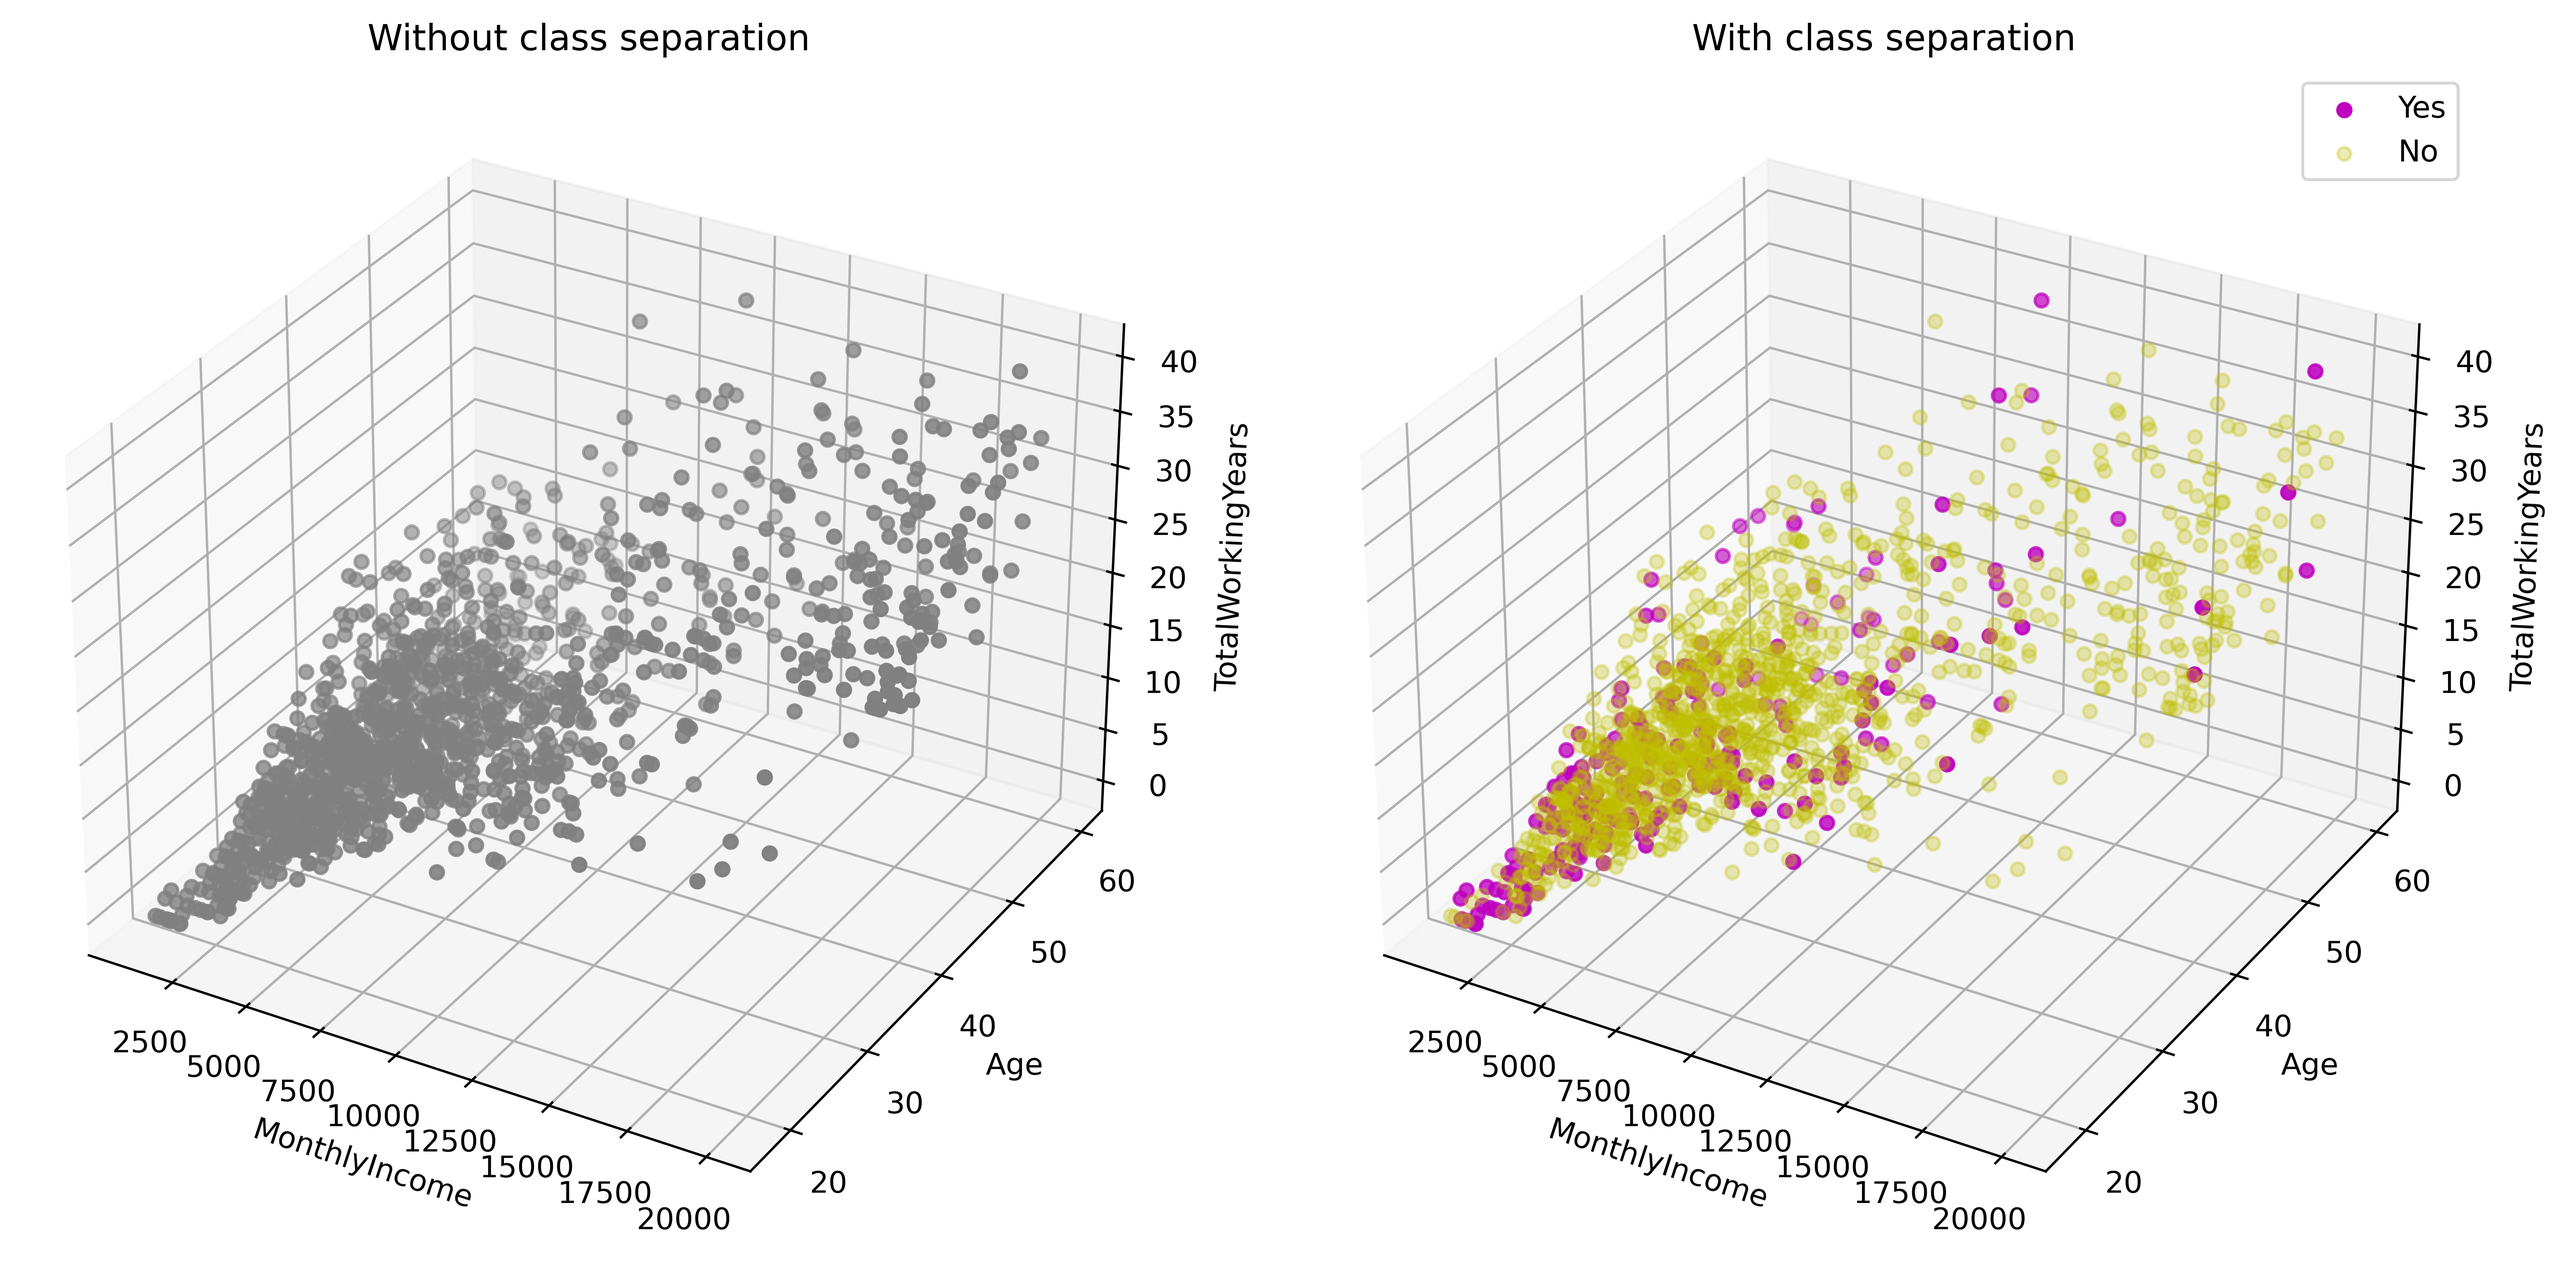
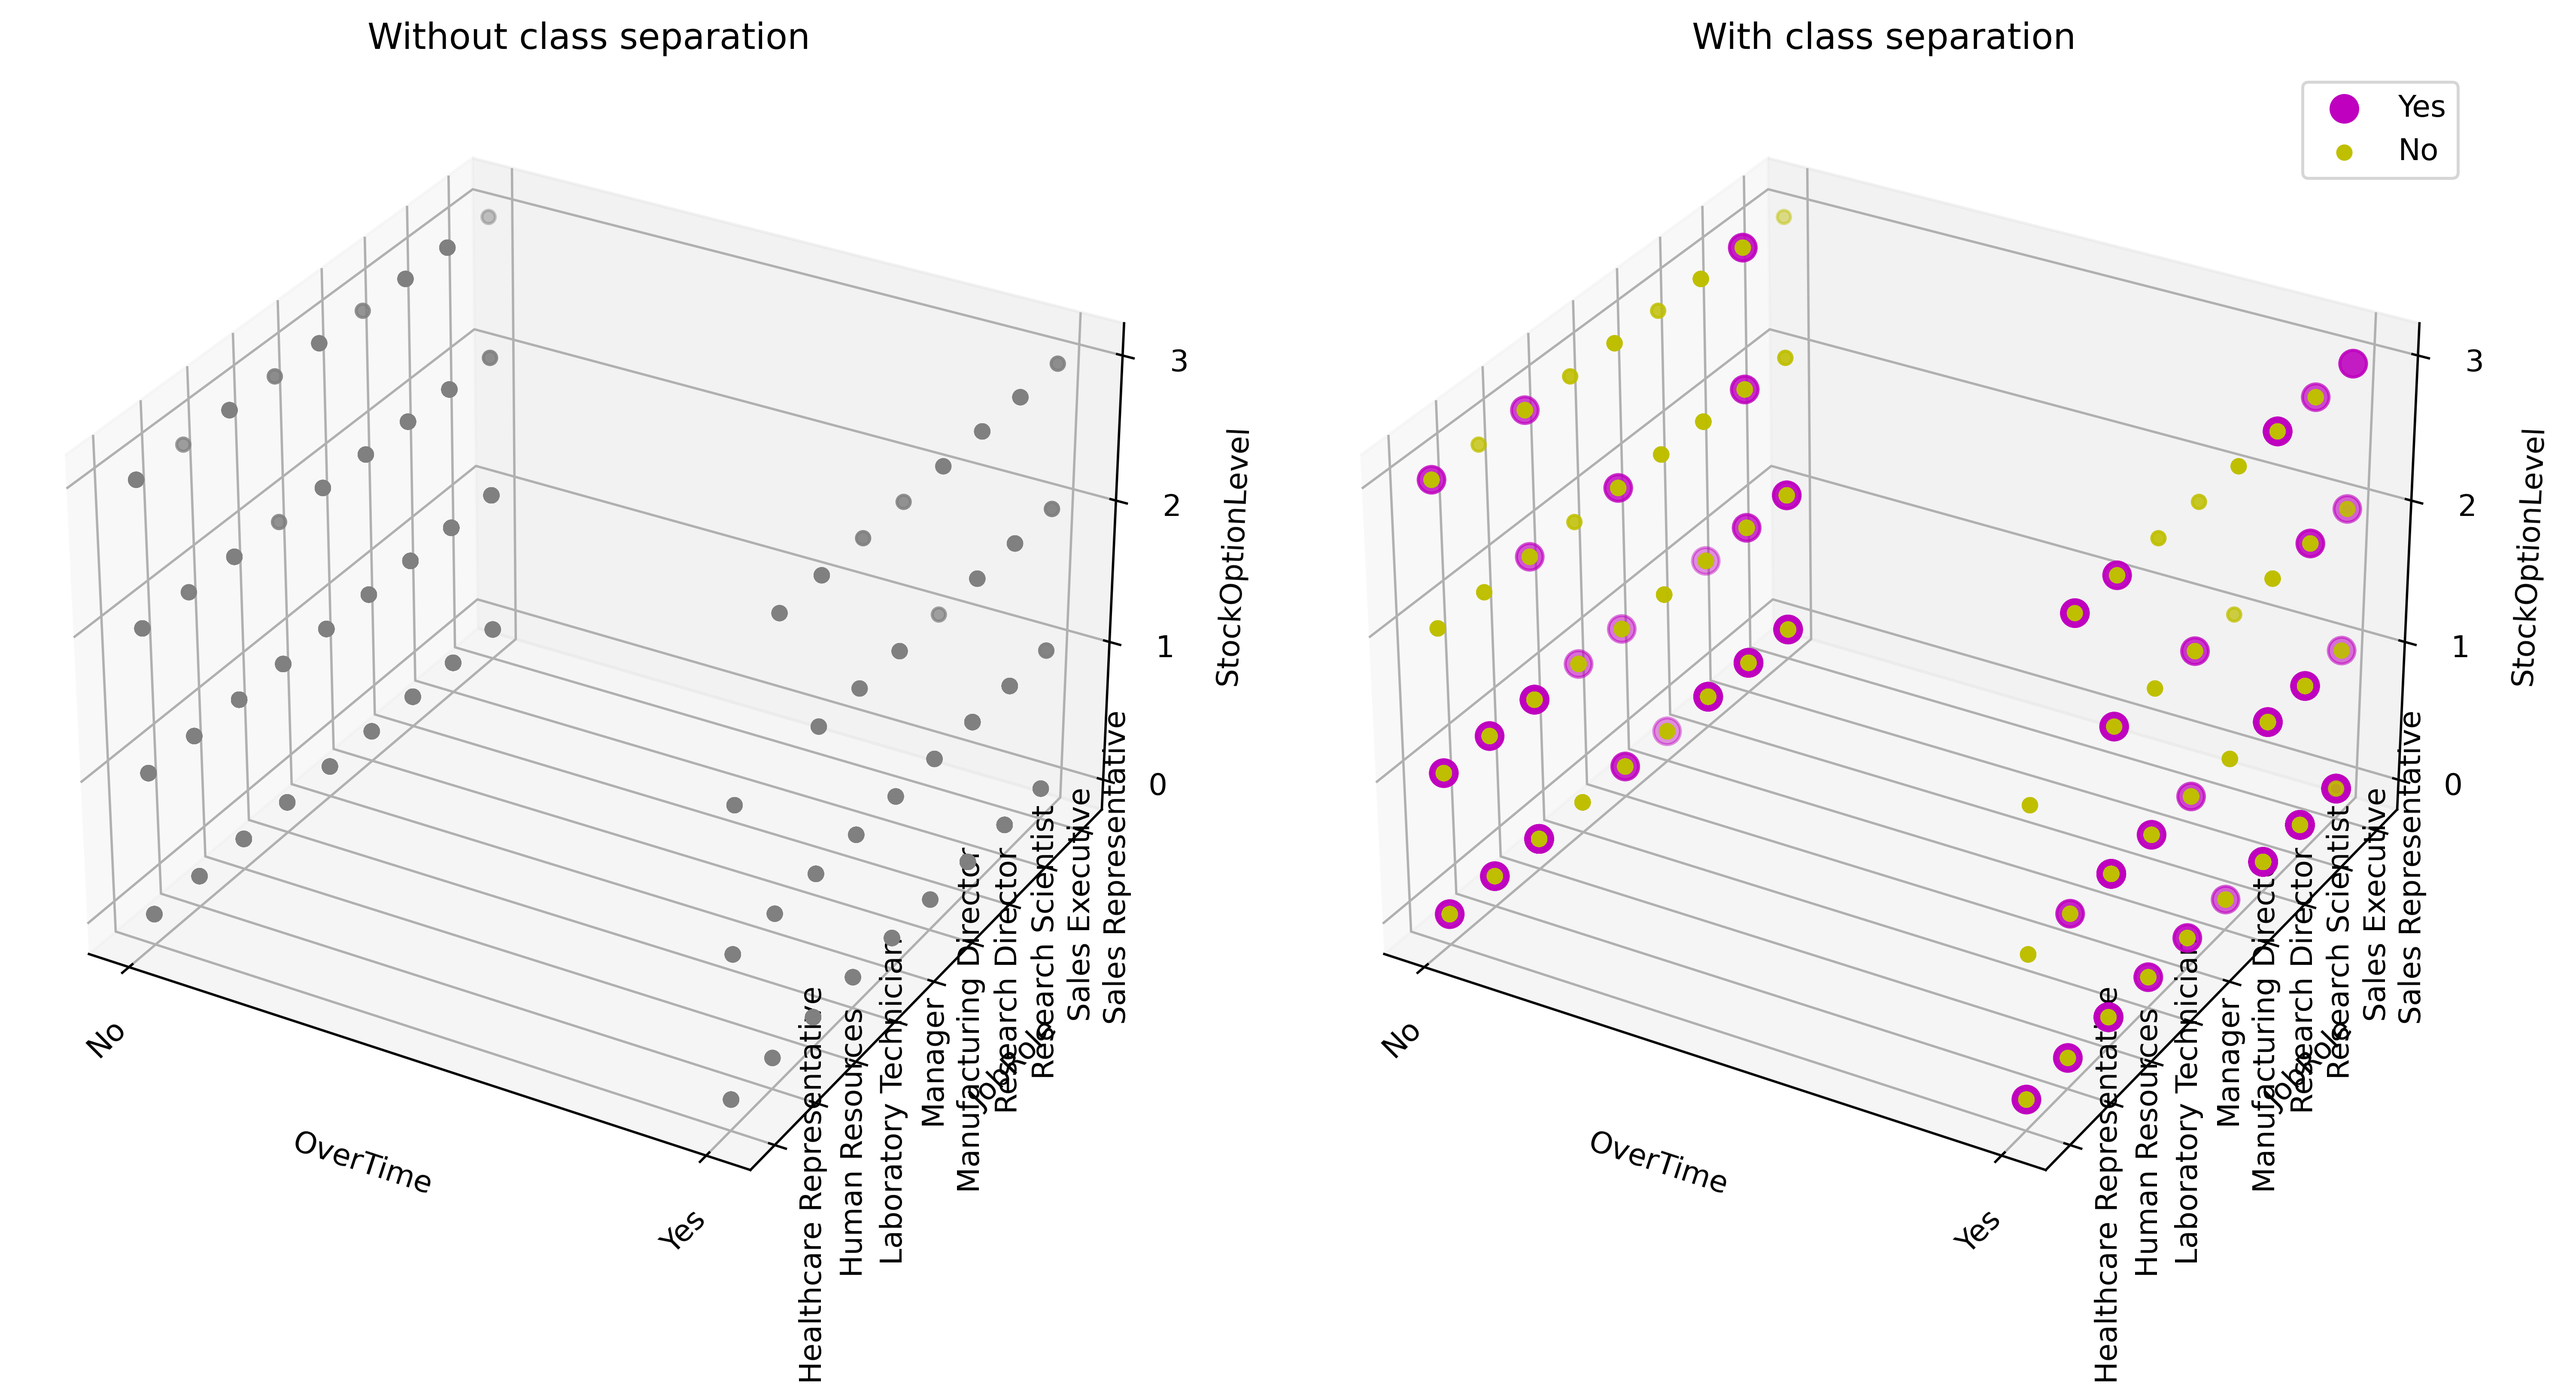
main-visualisation finalized

diff --git a/visualisation.py b/visualisation.py
@@ -1,11 +1,27 @@
 import pandas as pd
+import numpy as np
 from sklearn.discriminant_analysis import LinearDiscriminantAnalysis
 from sklearn.preprocessing import StandardScaler, OneHotEncoder, OrdinalEncoder
 from sklearn.compose import ColumnTransformer
 from sklearn.decomposition import PCA
 from sklearn.ensemble import RandomForestClassifier
 import matplotlib.pyplot as plt
-import plotly.express as px
+from scipy.stats import pointbiserialr, chi2_contingency
+import seaborn as sns
+
+def cramers_v(x, y):
+    confusion_matrix = pd.crosstab(x, y)
+    chi2 = chi2_contingency(confusion_matrix)[0]
+    n = confusion_matrix.sum().sum()
+    phi2 = chi2 / n
+    r, k = confusion_matrix.shape
+    phi2corr = max(0, phi2 - ((k-1)*(r-1))/(n-1))
+    rcorr = r - ((r-1)**2)/(n-1)
+    kcorr = k - ((k-1)**2)/(n-1)
+    denominator = min((kcorr-1), (rcorr-1))
+    if denominator <= 0:
+        return 0
+    return np.sqrt(phi2corr / denominator)
 
 # separate column names by their data types
 header_df = pd.read_csv("visual-dataset.csv", nrows=2)
@@ -13,9 +29,11 @@ continuous_cols = header_df.loc[:, (header_df == "continuous").any()].columns.va
 nominal_categorical_cols = header_df.loc[:, ((header_df != "continuous") & (header_df != "class") & (header_df.replace(r"^(\d\s*)+$", "ordinal", regex=True) != "ordinal")).all()].columns.values.tolist()
 ordinal_categorical_cols = header_df.loc[:, (header_df.replace(r"^(\d\s*)+$", "ordinal", regex=True) == "ordinal").any()].columns.values.tolist()
 binary_class_col = header_df.loc[:, (header_df == "class").any()].columns.values.tolist()[0]
+categorical_cols = nominal_categorical_cols + ordinal_categorical_cols + [binary_class_col]
 
 # load the dataset without the additional header rows
 data_df = pd.read_csv("visual-dataset.csv", skiprows=range(1, 3))
+data_df[categorical_cols] = data_df[categorical_cols].astype('category')
 
 # preprocess the dataset, i.e. scale the continuous features and encode the categorical features
 preprocessor = ColumnTransformer(
@@ -97,54 +115,135 @@ plt.subplots_adjust(left=0.05, bottom=0.12, right=0.95, top=0.91)
 plt.savefig("visualisation_lda_1D_subplots.png", dpi=500)
 plt.show()
 
-## select only the continuous features
-#continous_data_df = data_df[continuous_cols + [binary_class_col]].copy()
-## normalize the continuous features to the range [0, 1]
-#continous_data_df[continuous_cols] = ((continous_data_df[continuous_cols] - continous_data_df[continuous_cols].min()) / 
-#                                      (continous_data_df[continuous_cols].max() - continous_data_df[continuous_cols].min()))
-#
-#continous_data_df = continous_data_df.replace("Yes", 1)
-#continous_data_df = continous_data_df.replace("No", 0)
+# calculate correlation matrix
+cols = continuous_cols + categorical_cols
+correlation_matrix_df = pd.DataFrame(index=cols, columns=cols)
 
-## create the Parallel Coordinates plot
-#fig = px.parallel_coordinates(
-#    continous_data_df,
-#    color=binary_class_col,
-#    labels=dict(zip(continous_data_df.columns, continous_data_df.columns)),  # Custom labels can be provided here if needed
-#    color_continuous_scale=px.colors.diverging.Tealrose,  # Choose the color scale
-#    color_continuous_midpoint=0.5  # Set the color midpoint (adjust if needed)
-#)
+for col1 in cols:
+    for col2 in cols:
+        if col1 in continuous_cols and col2 in continuous_cols:
+            # Pearson's correlation for continuous-continuous pairs
+            if data_df[col1].nunique() == 1 or data_df[col2].nunique() == 1:
+                correlation_matrix_df.loc[col1, col2] = np.nan
+            else:
+                correlation_matrix_df.loc[col1, col2] = data_df[col1].corr(data_df[col2])
+        elif col1 in categorical_cols and col2 in categorical_cols:
+            # Cramér's V for categorical-categorical pairs
+            correlation_matrix_df.loc[col1, col2] = cramers_v(data_df[col1], data_df[col2])
+        else:
+            # Point-biserial correlation for continuous-categorical pairs
+            continuous_var, categorical_var = (col1, col2) if col1 in continuous_cols else (col2, col1)
+            if data_df[continuous_var].nunique() == 1 or data_df[categorical_var].nunique() == 1:
+                correlation_matrix_df.loc[col1, col2] = np.nan
+            else:
+                correlation_matrix_df.loc[col1, col2] = pointbiserialr(data_df[categorical_var].cat.codes, data_df[continuous_var])[0]
 
-#fig.show()
 
-# get feature importance using Random Forest
-rf = RandomForestClassifier(n_estimators=100, random_state=42)
-rf.fit(X, y)
+correlation_matrix_df = correlation_matrix_df.astype(float)
+# find the 3 most correlated features with the 'Attrition' column
+top_3_columns = correlation_matrix_df["Attrition"].apply(abs).sort_values(ascending=False).head(4)
+# remove the 'Attrition' itself from the list
+top_3_columns = list(top_3_columns.drop("Attrition").index)
 
-# combine feature importances with their column names
-columns_encoded = continuous_cols + preprocessor.named_transformers_["cat_nom"].get_feature_names_out(nominal_categorical_cols).tolist() + ordinal_categorical_cols
-feature_importances = pd.DataFrame({"column": columns_encoded, "importance": rf.feature_importances_})
+correlation_matrix_df = correlation_matrix_df.round(2)
 
-# select top 3 most important columns
-top_3_columns = feature_importances.nlargest(3, "importance")["column"].tolist()
+# create correlation heatmap
+plt.figure(figsize=(17, 11))
+sns.heatmap(correlation_matrix_df, annot=True, cmap="coolwarm", vmin=-1, vmax=1, linewidths=.5, cbar_kws={"shrink": .5}, annot_kws={"size": 9})
+plt.tight_layout()
+plt.savefig("visualisation_correlation_heatmap.png", dpi=500)
+plt.show()
+
+# convert the categorical columns to numerical codes
+data_df_numerical = data_df[top_3_columns].apply(lambda x: x.cat.codes)
 
 # plot the top 3 most important columns in a 3D scatter plot as two subplots, 
 # first without class separation and then with the class labels as the color
-figure, axes = plt.subplots(1, 2, figsize=(12, 6), subplot_kw={"projection": "3d"})
+figure, axes = plt.subplots(1, 2, figsize=(12, 6.5), subplot_kw={"projection": "3d"})
+
+# get unique categories for each of the top 3 columns
+x_categories = data_df[top_3_columns[0]].cat.categories
+y_categories = data_df[top_3_columns[1]].cat.categories
+z_categories = data_df[top_3_columns[2]].cat.categories
+
+# get the tick positions for each axis
+x_ticks = range(len(x_categories))
+y_ticks = range(len(y_categories))
+z_ticks = range(len(z_categories))
+
+# set tick positions and labels for each axis
+for ax in axes:
+    ax.set_xticks(x_ticks)
+    ax.set_xticklabels(x_categories, rotation=45)
+
+    ax.set_yticks(y_ticks)
+    ax.set_yticklabels(y_categories, rotation=90, va="center")
+
+    ax.set_zticks(z_ticks)
+    ax.set_zticklabels(z_categories)
+
 axes[0].title.set_text("Without class separation")
-axes[0].scatter3D(data_df[top_3_columns[0]], data_df[top_3_columns[1]], data_df[top_3_columns[2]], c="gray")
+axes[0].scatter3D(data_df_numerical[top_3_columns[0]], data_df_numerical[top_3_columns[1]], data_df_numerical[top_3_columns[2]], c="gray")
 axes[0].set_xlabel(top_3_columns[0])
 axes[0].set_ylabel(top_3_columns[1])
 axes[0].set_zlabel(top_3_columns[2])
 
 axes[1].title.set_text("With class separation")
-axes[1].scatter3D(data_df[top_3_columns[0]][y == "Yes"], data_df[top_3_columns[1]][y == "Yes"], data_df[top_3_columns[2]][y == "Yes"], c='m', label="Yes")
-axes[1].scatter3D(data_df[top_3_columns[0]][y == "No"], data_df[top_3_columns[1]][y == "No"], data_df[top_3_columns[2]][y == "No"], c='y', label="No", alpha=0.3)
+axes[1].scatter3D(data_df_numerical[top_3_columns[0]][y == "Yes"], data_df_numerical[top_3_columns[1]][y == "Yes"], data_df_numerical[top_3_columns[2]][y == "Yes"], c='m', label="Yes", s=80)
+axes[1].scatter3D(data_df_numerical[top_3_columns[0]][y == "No"], data_df_numerical[top_3_columns[1]][y == "No"], data_df_numerical[top_3_columns[2]][y == "No"], c='y', label="No")
 axes[1].set_xlabel(top_3_columns[0])
 axes[1].set_ylabel(top_3_columns[1])
 axes[1].set_zlabel(top_3_columns[2])
 axes[1].legend()
 
-plt.subplots_adjust(left=0.0, bottom=0.02, right=0.96, top=0.96, wspace=0.1)
+plt.subplots_adjust(left=0.0, bottom=0.1, right=0.96, top=0.96, wspace=0.1)
 plt.savefig("visualisation_feature_importance_3D_subplots.png", dpi=500)
+plt.show()
+
+# normalize continuous columns except "StandardHours", which is all 80
+continuous_cols_cleaned = [col for col in continuous_cols if col != "StandardHours"]
+data_df[continuous_cols_cleaned] = ((data_df[continuous_cols_cleaned] - data_df[continuous_cols_cleaned].min()) / 
+                                    (data_df[continuous_cols_cleaned].max() - data_df[continuous_cols_cleaned].min()))
+# normalize "StandardHours" to 1
+data_df["StandardHours"] = data_df["StandardHours"] / data_df["StandardHours"].max()
+
+# prepare subplots
+total_plots = len(continuous_cols) + len(nominal_categorical_cols) + len(ordinal_categorical_cols)
+ncols = 4
+nrows = int(np.ceil(total_plots / ncols))
+fig, axes = plt.subplots(nrows=nrows, ncols=ncols, figsize=(11, 15))
+axes = axes.flatten()
+
+# create bar plots for categorical columns
+plot_index = 0
+for cat_col in nominal_categorical_cols + ordinal_categorical_cols:
+    counts = data_df.groupby([cat_col, binary_class_col]).size().unstack(fill_value=0)
+    counts.plot(kind="bar", stacked=True, ax=axes[plot_index])
+    axes[plot_index].set_title(cat_col, fontsize=6)
+    axes[plot_index].set_xlabel("")
+    axes[plot_index].set_ylabel("Count", fontsize=6)
+    axes[plot_index].legend(fontsize=6)
+    axes[plot_index].tick_params(axis="both", labelsize=5, rotation=0)
+    plot_index += 1
+
+# create bar plots for continuous columns with intervals
+interval_labels = ["0.0-0.25", "0.25-0.5", "0.5-0.75", "0.75-1.0"]
+for cont_col in continuous_cols:
+    data_df[f"{cont_col}_interval"] = pd.cut(data_df[cont_col], bins=[0, 0.25, 0.5, 0.75, 1], labels=interval_labels, include_lowest=True)
+    counts = data_df.groupby([f"{cont_col}_interval", binary_class_col]).size().unstack(fill_value=0)
+    counts.plot(kind="bar", stacked=True, ax=axes[plot_index])
+    axes[plot_index].set_title(cont_col, fontsize=6)
+    axes[plot_index].set_xlabel("")
+    axes[plot_index].set_ylabel("Count", fontsize=6)
+    axes[plot_index].legend(fontsize=6)
+    axes[plot_index].tick_params(axis="both", labelsize=5, rotation=0)
+    plot_index += 1
+
+# remove any extra subplots
+for i in range(plot_index, len(axes)):
+    fig.delaxes(axes[i])
+
+# adjust spacing between subplots to avoid overlapping
+plt.subplots_adjust(left=0.05, bottom=0.02, right=0.99, top=0.98, wspace=0.25, hspace=0.3)
+plt.savefig("visualisation_bar_plots.png", dpi=500)
 plt.show()

diff --git a/README.md b/README.md
@@ -1,2 +1,1 @@
 # kdd1_hws
-Obecně: Měli bychomsi ujasnit, jak se handlebars výrazy dostanou k relačním datům obecně, protože používáme objrktovou JSON notaci (`object.subobject.subobject.key`) na relační data. A jediné, co mi zatím dává smysl, je ujednání, že použití jména atributu (`${cislo_smenky}`) je vlastně odkaz sloupec z `C17InstanceData` pro `C17InstanceId` = aktuální instance. Ale třeba použití `${C18InstanceBlock.Task_1r9wh4a.C24InstanceComment` je mi trochu záhadou, jestli ho mám číst jako že když je v tabulce sloupec pro `InstanceId` a neuvedu ho, ber aktuální, a pak konstanta `Task_1r9wh4a`, která je vede na cizí klíč a hodnotu `C04SchemaId` v `C04Block`, což mi dá `C04BockId`,které použiju jako cizí klíč v `C24`... Asi, a asi jsme to tak prostě vymysleli ad-hoc a na nic jiného to nejde použít, že ano?
